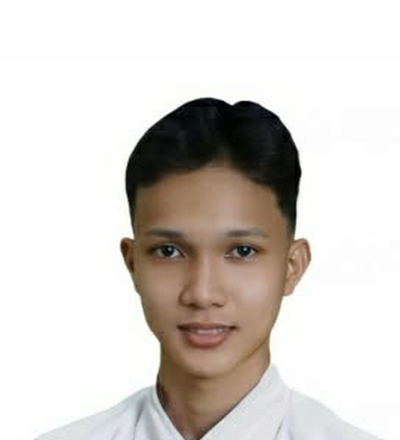
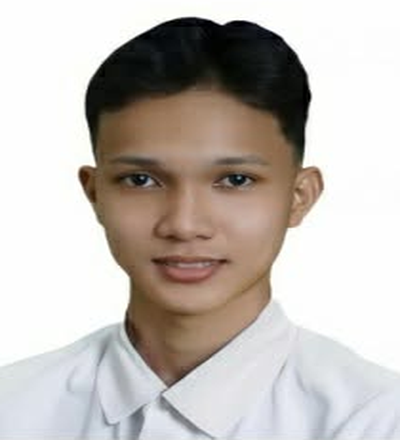
Update MPDO demonstration photo and adjust Harry Martillano portrait crop

diff --git a/index.html b/index.html
@@ -241,17 +241,17 @@
 
         <!-- ON-SITE MUNICIPAL RESEARCH & EVALUATION PHOTO -->
         <div class="field-interview-card">
-          <div class="field-interview-img-wrap shot-btn" data-full="assets/img/interview.png" data-alt="BayanLedger Research Proponents at Santa Cruz Municipal Hall" role="button" tabindex="0">
-            <img src="assets/img/interview.png" width="960" height="720" alt="BayanLedger Research Proponents at Santa Cruz Municipal Hall" loading="lazy">
+          <div class="field-interview-img-wrap shot-btn" data-full="assets/img/mpdo-validation.webp" data-alt="BayanLedger System Presentation & Evaluation with Santa Cruz MPDO" role="button" tabindex="0">
+            <img src="assets/img/mpdo-validation.webp" width="1024" height="768" alt="BayanLedger System Presentation & Evaluation with Santa Cruz MPDO" loading="lazy">
           </div>
           <div>
             <span class="tag tag-accent">On-Site Research & Field Validation</span>
-            <h3 style="font-size: 1.25rem; font-weight: 800; color: var(--text-white); margin: 0.35rem 0 0.5rem;">Municipal Planning & Development Office Interview</h3>
+            <h3 style="font-size: 1.25rem; font-weight: 800; color: var(--text-white); margin: 0.35rem 0 0.5rem;">Municipal Planning & Development Office (MPDO) Presentation</h3>
             <p style="font-size: 0.92rem; color: var(--text-secondary); line-height: 1.6; margin: 0 0 0.85rem;">
-              The research proponents conducting formal on-site municipal workflow evaluation, stakeholder interviews, and system requirements analysis with the Management Information Systems (MIS) and MPDC personnel at the Santa Cruz Town Hall, Laguna.
+              The research proponents demonstrating BayanLedger's live blockchain milestone verification, automated ledger tamper detection, and multi-gate approval workflows before the Municipal Planning and Development Office (MPDO) coordinators and staff at the Santa Cruz Town Hall, Laguna.
             </p>
             <div style="font-size: 0.82rem; color: var(--text-muted); font-family: var(--font-mono);">
-              📍 Santa Cruz Municipal Hall, Santa Cruz, Laguna • Initial Requirements & Process Flow Analysis
+              📍 Municipal Planning and Development Office (MPDO), Santa Cruz Town Hall, Laguna • Live Demonstration & Stakeholder Evaluation
             </div>
           </div>
         </div>
